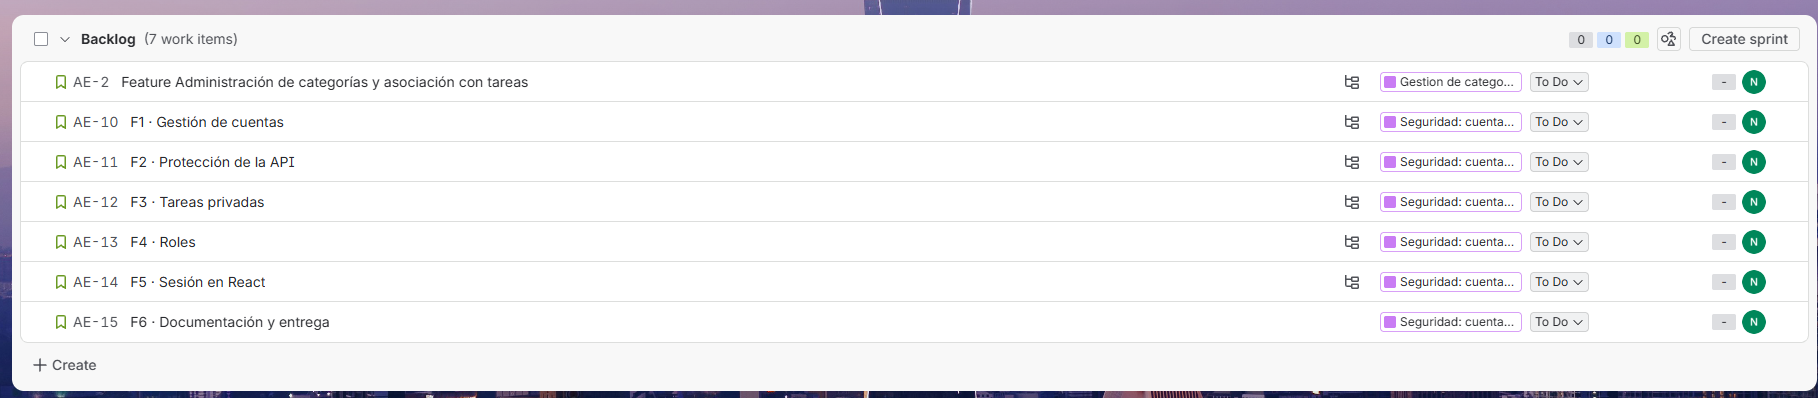
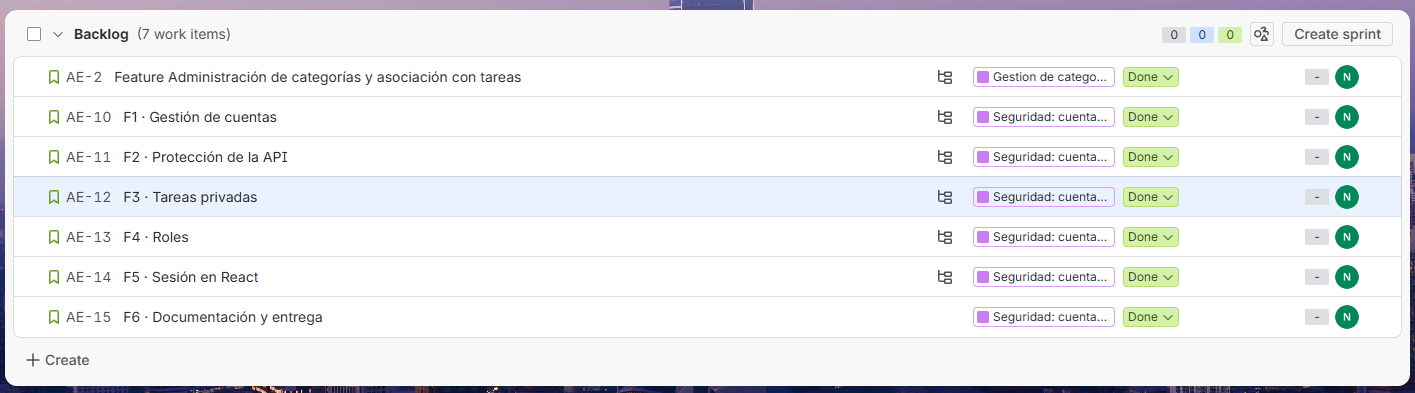
docs: update Jira evidence with completed features

Changed region(s): [[0.0, 0.0, 1.0, 1.0]]

diff --git a/README.md b/README.md
@@ -71,6 +71,8 @@ El trabajo se organizó en la épica AE-9, "Seguridad: cuentas de usuario y tare
 
 ![Historia HU-SEG-03 con sus criterios de aceptación](docs/evidence/security/18-jira-historia.png)
 
+![Feature F3 con su descripción y su historia](docs/evidence/security/19-jira-feature.png)
+
 ### Componentes que se modifican
 
 | Capa | Componente | Cambio |
